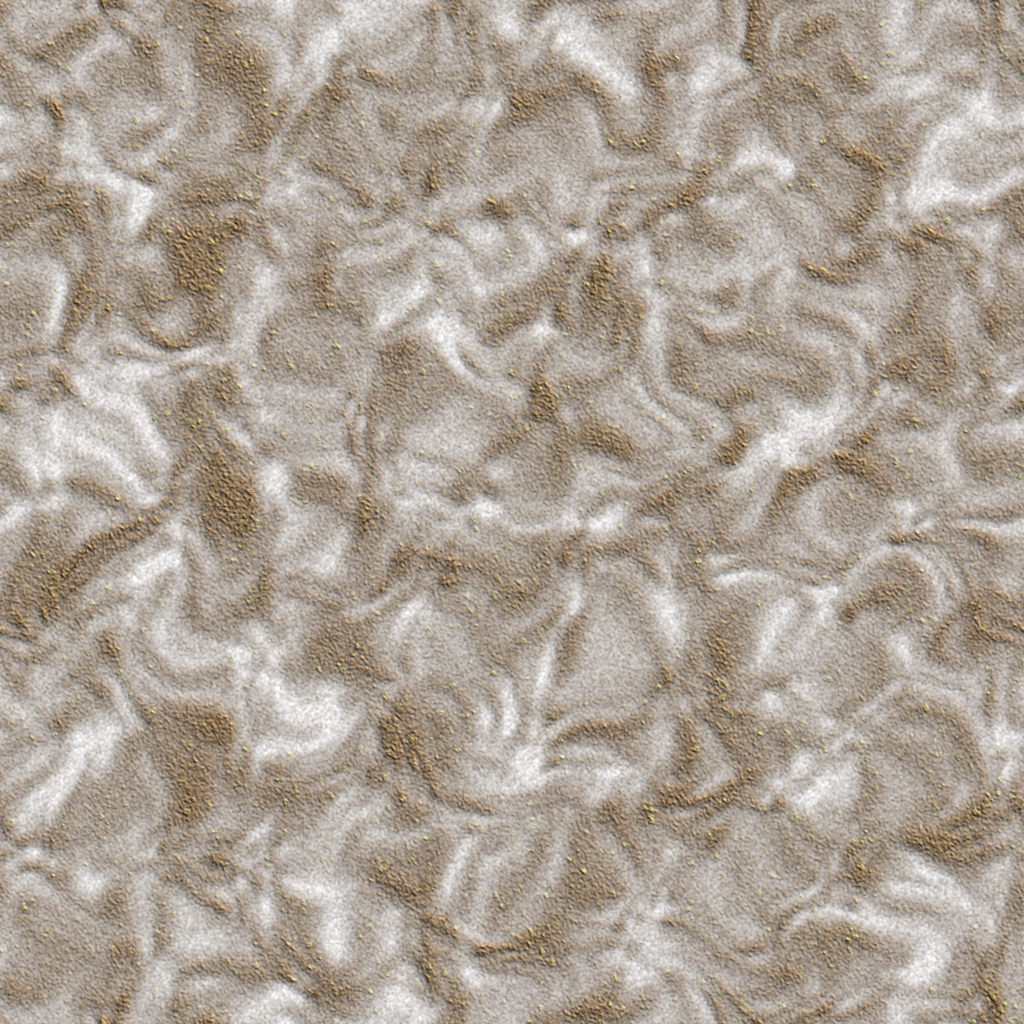
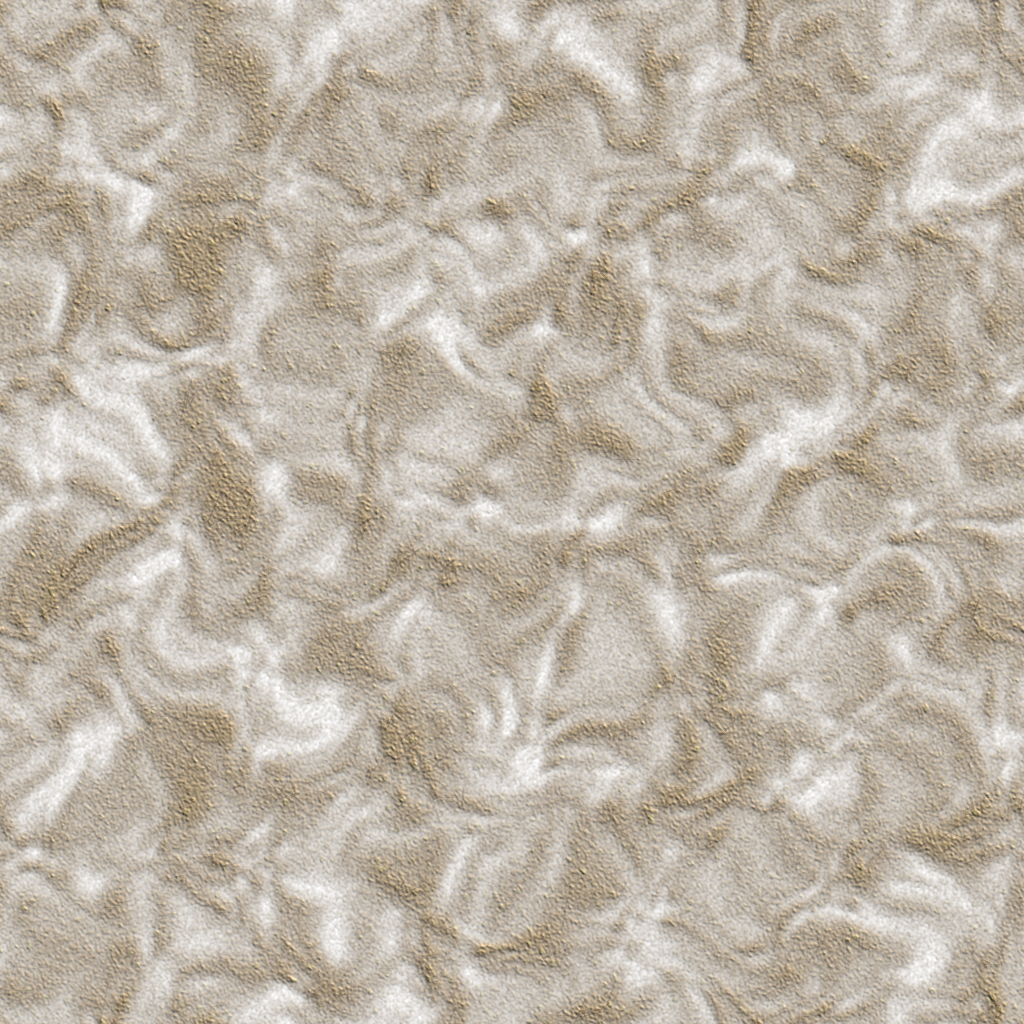
M10 terrain: lighter, quieter Flood ground so that dark forms show on it

diff --git a/Tools/TerrainGen/make_ground_textures.py b/Tools/TerrainGen/make_ground_textures.py
@@ -316,12 +316,12 @@ def flood_mass():
     fine = band_noise(73, 50, 260, 0.6)
     mottled = band_noise(74, 10, 50)
     height = np.clip(lump * 0.7 + big * 0.25 + fine * 0.05 - crease * 0.3, 0, 1)
-    color = ramp(big * 0.45 + mottled * 0.55, (72, 76, 44), (92, 96, 52), (112, 112, 62), (134, 128, 78))
-    color = blend(color, (58, 42, 32), crease * 0.62)
+    color = ramp(big * 0.45 + mottled * 0.55, (112, 118, 78), (128, 134, 88), (144, 148, 98), (162, 160, 112))
+    color = blend(color, (84, 72, 54), crease * 0.55)
     pale = smooth(0.55, 0.95, lump) * smooth(0.5, 0.8, mottled)
-    color = blend(color, (156, 148, 96), pale * 0.25)
-    color *= (0.92 + 0.16 * fine)[..., None]
-    color *= relief(height, 9.0)[..., None]
+    color = blend(color, (178, 172, 124), pale * 0.2)
+    color *= (0.94 + 0.12 * fine)[..., None]
+    color *= relief(height, 6.0)[..., None]
     return color, height
 
 
@@ -331,19 +331,19 @@ def flood_rot():
     mud = wrap_sample(band_noise(83, 3, 40, 1.0), warp_x, warp_y)
     fine = band_noise(84, 50, 300, 0.6)
     height = np.clip(mud * 0.75 + fine * 0.25, 0, 1)
-    color = ramp(mud, (54, 40, 30), (78, 58, 40), (100, 76, 50), (122, 96, 64))
-    color *= (0.84 + 0.3 * fine)[..., None]
+    color = ramp(mud, (100, 84, 64), (116, 98, 74), (132, 112, 84), (150, 130, 98))
+    color *= (0.9 + 0.2 * fine)[..., None]
 
     def fibre(rng):
         g = rng.uniform(0.7, 1.2)
-        return (int(66 * g), int(44 * g), int(30 * g), 200)
+        return (int(96 * g), int(76 * g), int(58 * g), 170)
 
     layer = strokes(85, 5000, 10, 34, 2, fibre)
     color = color * (1 - layer[..., 3:] * 0.6) + layer[..., :3] * 255.0 * layer[..., 3:] * 0.6
     spores = blur(dots(86, 2200, 0.8, 2.6), 0.6)
-    color = blend(color, (156, 152, 84), np.clip(spores, 0, 1) * 0.7)
+    color = blend(color, (170, 164, 110), np.clip(spores, 0, 1) * 0.45)
     height = np.clip(height + spores * 0.15, 0, 1)
-    color *= relief(height, 9.0)[..., None]
+    color *= relief(height, 6.0)[..., None]
     return color, height
 
 
@@ -355,16 +355,16 @@ def flood_sinew():
     veins = np.clip(smooth(0.86, 0.98, vein_a) + smooth(0.88, 0.98, vein_b) * 0.7, 0, 1)
     tissue = band_noise(95, 4, 30)
     fine = band_noise(96, 60, 300, 0.5)
-    color = ramp(tissue, (92, 72, 56), (110, 88, 64), (124, 102, 74), (138, 118, 86))
+    color = ramp(tissue, (124, 104, 84), (140, 120, 96), (154, 134, 108), (168, 150, 122))
     color *= (0.92 + 0.16 * fine)[..., None]
-    color = blend(color, (136, 82, 66), blur(veins, 2.0) * 0.4)
-    color = blend(color, (84, 44, 40), veins * 0.55)
+    color = blend(color, (150, 104, 88), blur(veins, 2.0) * 0.35)
+    color = blend(color, (104, 66, 58), veins * 0.5)
 
     # Pustules: a pale, wet head in a dark ring. Few and dull: they must not look like units.
     heads = blur(dots(97, 60, 5, 12), 1.6)
     ring = np.clip(blur(dots(97, 60, 7, 16), 2.2) - heads, 0, 1)
-    color = blend(color, (70, 48, 36), ring * 0.6)
-    color = blend(color, (172, 164, 96), np.clip(heads * 1.1, 0, 1) * 0.7)
+    color = blend(color, (96, 76, 60), ring * 0.5)
+    color = blend(color, (184, 178, 124), np.clip(heads * 1.1, 0, 1) * 0.6)
     height = np.clip(tissue * 0.5 + veins * 0.25 + heads * 0.6, 0, 1)
     color *= relief(height, 7.0)[..., None]
     return color, height

diff --git a/Assets/_Project/Scripts/Combat/Presentation/Terrain/TerrainLayoutsFlood.cs b/Assets/_Project/Scripts/Combat/Presentation/Terrain/TerrainLayoutsFlood.cs
@@ -14,7 +14,7 @@ namespace Halobellum.Presentation
         private static readonly Color32 Skin = new Color32(112, 112, 56, 0);
         private static readonly Color32 Pale = new Color32(186, 176, 102, 0);
         private static readonly Color32 RootColor = new Color32(84, 62, 44, 0);
-        private static readonly Color32 PodGlow = new Color32(226, 226, 110, 90);
+        private static readonly Color32 PodGlow = new Color32(226, 226, 130, 60);
 
         public override string Name => "Creep";
 
@@ -33,7 +33,7 @@ namespace Halobellum.Presentation
             var branch = new List<Vector2>();
 
             // Nests of pustules with veins spreading from them over the floor.
-            for (int nest = 0; nest < 8; nest++)
+            for (int nest = 0; nest < 6; nest++)
             {
                 float nx = r.Range(-74f, 74f), nz = c.Z(r.Range(14f, 78f));
                 int veins = 3 + r.Int(3);
@@ -51,13 +51,13 @@ namespace Halobellum.Presentation
                     }
                 }
                 c.PaintDisc(nx, nz, r.Range(7f, 12f), 2, 0.8f);
-                int heads = 4 + r.Int(6);
+                int heads = 3 + r.Int(4);
                 for (int h = 0; h < heads; h++)
                     Pustule(c, r, nx + r.Range(-5f, 5f), nz + r.Range(-5f, 5f), r.Range(0.5f, 1.3f));
             }
 
             // Stray heads and dark slick patches.
-            for (int i = 0; i < 26; i++) Pustule(c, r, r.Range(-78f, 78f), c.Z(r.Range(6f, 80f)), r.Range(0.3f, 0.8f));
+            for (int i = 0; i < 14; i++) Pustule(c, r, r.Range(-78f, 78f), c.Z(r.Range(6f, 80f)), r.Range(0.3f, 0.7f));
             for (int i = 0; i < 22; i++) Stain(c, r.Range(-78f, 78f), c.Z(r.Range(6f, 80f)), r.Range(1.5f, 5f), C(30, 22, 12, 120));
 
             // A wall of biomass around the field, low and lumpy, with tendrils over it.
@@ -187,7 +187,7 @@ namespace Halobellum.Presentation
                 c.KeepOnFloor(path, 0.5f);
                 Vein(c, path, r.Range(0.35f, 0.8f));
             }
-            for (int i = 0; i < 16; i++) Pustule(c, r, r.Range(-78f, 78f), c.Z(r.Range(6f, 80f)), r.Range(0.4f, 1.0f));
+            for (int i = 0; i < 10; i++) Pustule(c, r, r.Range(-78f, 78f), c.Z(r.Range(6f, 80f)), r.Range(0.4f, 0.8f));
 
             // Old scorch marks.
             for (int i = 0; i < 12; i++) Crater(c, r.Range(-74f, 74f), c.Z(r.Range(12f, 78f)), r.Range(1.5f, 3.6f), C(70, 56, 40));
@@ -317,7 +317,7 @@ namespace Halobellum.Presentation
                 c.KeepOnFloor(path, 0.5f);
                 Vein(c, path, r.Range(0.4f, 0.8f));
             }
-            for (int i = 0; i < 34; i++) Pustule(c, r, r.Range(-78f, 78f), c.Z(r.Range(6f, 80f)), r.Range(0.35f, 1f));
+            for (int i = 0; i < 16; i++) Pustule(c, r, r.Range(-78f, 78f), c.Z(r.Range(6f, 80f)), r.Range(0.35f, 0.8f));
 
             // Low swellings all round the floor.
             for (int k = -1; k <= 1; k += 2)

diff --git a/Assets/_Project/Scripts/Combat/Presentation/Terrain/TerrainLayout.cs b/Assets/_Project/Scripts/Combat/Presentation/Terrain/TerrainLayout.cs
@@ -75,9 +75,9 @@ namespace Halobellum.Presentation
         {
             if (points.Count < 2) return;
             c.Decals.Uv = new Vector2(0f, 0.3f);
-            c.Decals.FlatRibbon(D, points, width * 2.6f, width * 0.8f, C(22, 12, 10, 170), true);
-            c.Decals.FlatRibbon(D, points, width, width * 0.25f, C(74, 34, 36, 255));
-            c.Decals.FlatRibbon(D, points, width * 0.45f, width * 0.1f, C(150, 88, 70, 255));
+            c.Decals.FlatRibbon(D, points, width * 2.6f, width * 0.8f, C(50, 36, 30, 110), true);
+            c.Decals.FlatRibbon(D, points, width, width * 0.25f, C(92, 56, 52, 255));
+            c.Decals.FlatRibbon(D, points, width * 0.45f, width * 0.1f, C(128, 88, 72, 255));
             c.Decals.Uv = Vector2.zero;
         }
 
@@ -85,11 +85,12 @@ namespace Halobellum.Presentation
         protected static void Pustule(TerrainCanvas c, TerrainRandom r, float x, float z, float radius)
         {
             c.Decals.Uv = Vector2.zero;
-            c.Decals.FlatDisc(D, x, z, radius * 1.7f, radius * 1.55f, C(24, 16, 10, 210), C(24, 16, 10, 0), 10);
-            c.Decals.FlatDisc(D, x, z, radius, radius * 0.92f, C(196, 196, 96), C(118, 110, 46), 10);
-            c.Decals.FlatDisc(D, x - radius * 0.2f, z + radius * 0.25f, radius * 0.4f, radius * 0.34f, C(240, 240, 176), C(196, 196, 96, 0), 8);
+            // Dull, so that it never looks like a unit at a distance.
+            c.Decals.FlatDisc(D, x, z, radius * 1.7f, radius * 1.55f, C(44, 32, 22, 170), C(44, 32, 22, 0), 10);
+            c.Decals.FlatDisc(D, x, z, radius, radius * 0.92f, C(170, 164, 110), C(116, 106, 70), 10);
+            c.Decals.FlatDisc(D, x - radius * 0.2f, z + radius * 0.25f, radius * 0.4f, radius * 0.34f, C(204, 200, 152), C(170, 164, 110, 0), 8);
             c.Glow.Uv = new Vector2(0.5f, r.Range(0f, 6.28f));
-            c.Glow.FlatDisc(G, x, z, radius * 2.5f, radius * 2.4f, C(170, 190, 60, 60), C(170, 190, 60, 0), 8);
+            c.Glow.FlatDisc(G, x, z, radius * 2.2f, radius * 2.1f, C(170, 190, 60, 16), C(170, 190, 60, 0), 8);
             c.Glow.Uv = Vector2.zero;
         }
 

diff --git a/Assets/_Project/Scripts/Combat/Presentation/Terrain/UnitBlobShadows.cs b/Assets/_Project/Scripts/Combat/Presentation/Terrain/UnitBlobShadows.cs
@@ -78,7 +78,8 @@ namespace Halobellum.Presentation
                     SimUnit unit = units[i];
                     if (!unit.IsAlive || !_views.TryBodyPosition(unit, out Vector3 at)) continue;
                     float radius = Mathf.Max(0.5f, unit.Radius) * 1.45f;
-                    float strength = 1f;
+                    // A pack of tiny forms is dark against the ground already: a dark blob would swallow it.
+                    float strength = unit.FormsAlive > 1 ? 0.25f : 1f;
                     if (unit.IsAir)
                     {
                         radius *= 1.35f;

diff --git a/Assets/_Project/Scripts/Combat/Presentation/Terrain/TerrainTheme.cs b/Assets/_Project/Scripts/Combat/Presentation/Terrain/TerrainTheme.cs
@@ -181,7 +181,7 @@ namespace Halobellum.Presentation
             FogEnd = 850f,
             FogAmount = 1f,
             Haze = Rgb(146, 150, 82),
-            HazeAmount = 0.42f,
+            HazeAmount = 0.34f,
             MoteColor = Rgb(216, 224, 110),
             MoteCount = 140,
         };

diff --git a/Docs/M10/terrain.md b/Docs/M10/terrain.md
@@ -26,7 +26,6 @@ Each faction has three layouts (the brief asked for at least two). The match see
 | Covenant | Crystal Garden | Pale drifted sand and slowly opening spirals of teal seams, in a field of tall crystals, under a cooler blue-grey sky. |
 | Flood | Creep | Living biomass, brown rot and sinew. Nests of pustules with veins spreading from them, a lumpy wall around the field, arching and rearing tendrils, swollen pods, spores in the air, a dark sky. |
 | Flood | Wreck | A place the Flood has taken: rot and pools of slime over the broken slabs of a dead base, burst barriers, rusted containers, strangled masts, the great ribs of a hull. A browner sky. |
-
 | Flood | Hive | Raw sinew under a bruised red-brown sky, cut by trenches of rot, with tall ribbed spires standing over it. |
 
 All shapes and textures are original. Nothing was downloaded, and there are no logos or markings from anywhere.
